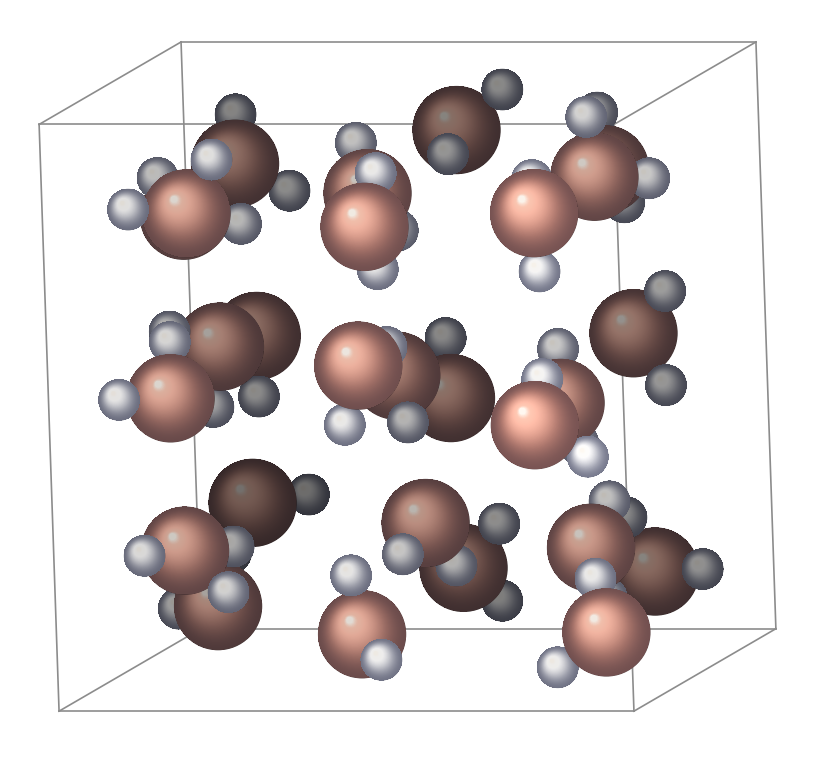
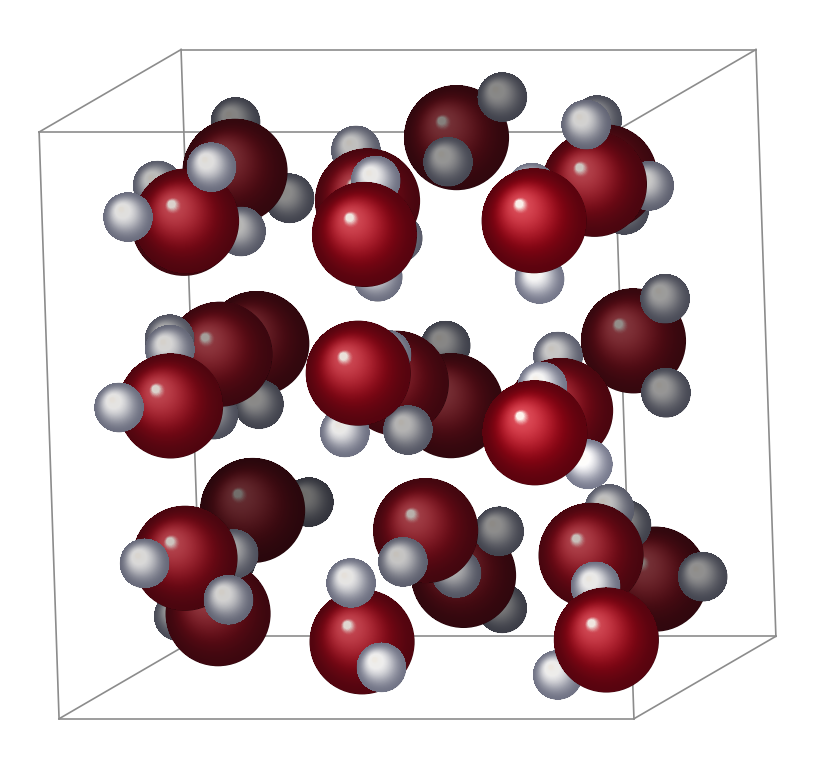
Gallery water renders use emerald + xlarge
Water box (styles/sizes/preview) now rendered with the emerald palette at
xlarge — deep red O, white H, chunky. (Only O+H, so emerald vs jmol is a
subtle red-depth difference.) Palettes gallery unchanged (diverse cluster).

diff --git a/docs/make_gallery.py b/docs/make_gallery.py
@@ -78,27 +78,31 @@ def main():
     wb = water_box()
     cl = demo_cluster()
 
-    # styles: every style on the water box, default palette/size
-    _grid(STYLES, lambda s, ax: cv.render(wb, ax, style=s, rotation="8x,-14y,0z",
-                                          rings=160),
+    # water renders read best in a deep red at xlarge (only O+H, so emerald and
+    # jmol look nearly the same here — emerald just deepens the red)
+    WPAL, WSIZE, WROT = "emerald", "xlarge", "8x,-14y,0z"
+
+    # styles: every style on the water box
+    _grid(STYLES, lambda s, ax: cv.render(wb, ax, style=s, palette=WPAL,
+                                          radius_scale=WSIZE, rotation=WROT, rings=160),
           ncol=3, title_fn=str, path=f"{HERE}/styles.png",
-          suptitle=f"styles  (palette={cv.DEFAULT_PALETTE})")
+          suptitle=f"styles  (palette={WPAL}, size={WSIZE})")
 
     # palettes: every palette on the diverse cluster, default style/size
     _grid(PALETTES, lambda p, ax: cv.render(cl, ax, palette=p, rings=160),
           ncol=6, title_fn=str, path=f"{HERE}/palettes.png",
           suptitle=f"palettes  (style={cv.DEFAULT_STYLE_NAME})")
 
-    # sizes: the presets on the water box, default style/palette
-    _grid(SIZES, lambda s, ax: cv.render(wb, ax, radius_scale=s,
-                                        rotation="8x,-14y,0z", rings=160),
+    # sizes: the presets on the water box (palette fixed so only size varies)
+    _grid(SIZES, lambda s, ax: cv.render(wb, ax, radius_scale=s, palette=WPAL,
+                                        rotation=WROT, rings=160),
           ncol=4, title_fn=lambda s: f"{s}  ({cv.RADIUS_SCALES[s]})",
-          path=f"{HERE}/sizes.png")
+          path=f"{HERE}/sizes.png", suptitle=f"sizes  (palette={WPAL})")
 
-    # hero preview: one clean render with the package defaults, saved as a
-    # high-res PNG (inline in the README) and a true-vector PDF (zoomable)
+    # hero preview: a clean water render, saved as a high-res PNG (inline in the
+    # README) and a true-vector PDF (zoomable)
     fig, ax = plt.subplots(figsize=(5, 5))
-    cv.render(wb, ax, rotation="8x,-14y,0z")
+    cv.render(wb, ax, palette=WPAL, radius_scale=WSIZE, rotation=WROT)
     fig.savefig(f"{HERE}/preview.png", bbox_inches="tight", dpi=200)
     fig.savefig(f"{HERE}/preview.pdf", bbox_inches="tight")
     plt.close(fig)

diff --git a/README.md b/README.md
@@ -61,7 +61,7 @@ them. Run the tests with `pytest`. MIT licensed.
 Pick a `style`, `palette` and `radius_scale` by eye. Regenerate with
 `python docs/make_gallery.py` (self-contained — builds its own demo structures).
 
-**Styles** (default palette):
+**Styles** (water box, `emerald`):
 
 ![styles](docs/styles.png)
 